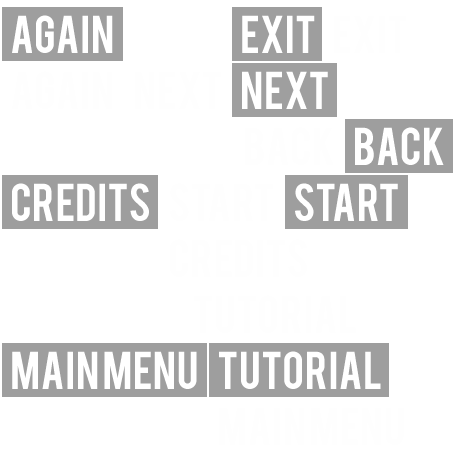
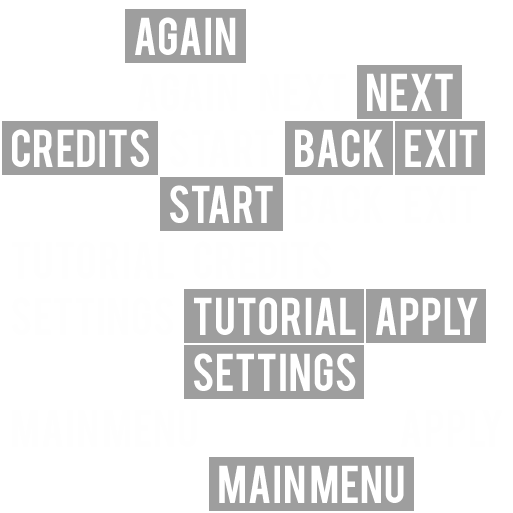
Added settings screen

diff --git a/core/src/com/fedorzaplatin/lunolet/screens/SettingsScreen.java b/core/src/com/fedorzaplatin/lunolet/screens/SettingsScreen.java
@@ -1,0 +1,113 @@
+package com.fedorzaplatin.lunolet.screens;
+
+
+import com.badlogic.gdx.Gdx;
+import com.badlogic.gdx.graphics.GL20;
+import com.badlogic.gdx.graphics.Texture;
+import com.badlogic.gdx.graphics.g2d.TextureAtlas;
+import com.badlogic.gdx.scenes.scene2d.Stage;
+import com.badlogic.gdx.scenes.scene2d.ui.Image;
+import com.badlogic.gdx.scenes.scene2d.ui.ImageButton;
+import com.badlogic.gdx.scenes.scene2d.ui.Slider;
+import com.badlogic.gdx.scenes.scene2d.ui.Table;
+import com.fedorzaplatin.lunolet.MainClass;
+import com.fedorzaplatin.lunolet.ui.LunoletButtonsStyle;
+import com.fedorzaplatin.lunolet.ui.LunoletSliderStyle;
+import org.ini4j.Ini;
+
+public class SettingsScreen extends BaseScreen {
+
+    private Stage stage;
+    private ImageButton applyBtn, backBtn;
+    private Slider musicVolumeSlider, effectsVolumeSlider;
+    private float currentMusicVolume, currentEffectsVolume;
+    private boolean changed;
+
+    /**
+     * Constructor
+     * @param game main class that extends class Game
+     */
+    public SettingsScreen(MainClass game, Ini config) {
+        super(game);
+        this.stage = new Stage();
+        this.changed = false;
+
+        Ini.Section section = config.get("SETTINGS");
+        this.currentMusicVolume = Float.parseFloat(section.get("musicVolume"));
+        this.currentEffectsVolume = Float.parseFloat(section.get("effectsVolume"));
+
+        Image background = new Image((Texture) game.am.get("settings-screen/background.png"));
+
+        Slider.SliderStyle sliderStyle;
+        sliderStyle = new LunoletSliderStyle((TextureAtlas) game.am.get("settings-screen/slider.atlas"));
+        musicVolumeSlider = new Slider(0, 1, 0.01f, false, sliderStyle);
+        musicVolumeSlider.setValue(currentMusicVolume);
+
+        sliderStyle = new LunoletSliderStyle((TextureAtlas) game.am.get("settings-screen/slider.atlas"));
+        effectsVolumeSlider = new Slider(0, 1, 0.01f, false, sliderStyle);
+        effectsVolumeSlider.setValue(currentEffectsVolume);
+
+        ImageButton.ImageButtonStyle buttonStyle;
+        buttonStyle = new LunoletButtonsStyle((TextureAtlas) game.am.get("buttons.atlas"), "apply");
+        applyBtn = new ImageButton(buttonStyle);
+
+        buttonStyle = new LunoletButtonsStyle((TextureAtlas) game.am.get("buttons.atlas"), "back");
+        backBtn = new ImageButton(buttonStyle);
+
+        Table table = new Table();
+        table.setPosition(0, -120);
+        table.setFillParent(true);
+        table.add(musicVolumeSlider).right().padBottom(54).padRight(34).expandX();
+        table.row();
+        table.add(effectsVolumeSlider).right().padTop(54).padBottom(67).padRight(34).expandX();
+        table.row();
+        table.add(backBtn).bottom().center().padTop(67).padBottom(43).expandX();
+
+        stage.addActor(background);
+        stage.addActor(table);
+    }
+
+    @Override
+    public void show() {
+        Gdx.input.setInputProcessor(stage);
+    }
+
+    @Override
+    public void render(float delta) {
+        Gdx.gl.glClearColor(0, 0,0, 0);
+        Gdx.gl.glClear(GL20.GL_COLOR_BUFFER_BIT);
+
+        if ((currentMusicVolume != musicVolumeSlider.getValue() | currentEffectsVolume != effectsVolumeSlider.getValue()) & !changed) {
+            changed = !changed;
+        } else if ((currentMusicVolume == musicVolumeSlider.getValue() | currentEffectsVolume == effectsVolumeSlider.getValue()) & changed) {
+            changed = !changed;
+        }
+        stage.act();
+        stage.draw();
+    }
+
+    @Override
+    public void resize(int width, int height) {
+        super.resize(width, height);
+    }
+
+    @Override
+    public void pause() {
+        super.pause();
+    }
+
+    @Override
+    public void resume() {
+        super.resume();
+    }
+
+    @Override
+    public void hide() {
+        Gdx.input.setInputProcessor(null);
+    }
+
+    @Override
+    public void dispose() {
+        super.dispose();
+    }
+}

diff --git a/core/src/com/fedorzaplatin/lunolet/MainClass.java b/core/src/com/fedorzaplatin/lunolet/MainClass.java
@@ -9,17 +9,29 @@ import com.badlogic.gdx.graphics.Texture;
 import com.badlogic.gdx.graphics.g2d.BitmapFont;
 import com.badlogic.gdx.graphics.g2d.TextureAtlas;
 import com.fedorzaplatin.lunolet.screens.SplashScreen;
+import org.ini4j.Ini;
+
+import java.io.File;
+import java.io.IOException;
 
 public class MainClass extends Game {
 
 	public ScreensManager sm;
 	public AssetManager am;
+	private Ini config;
 
 	private Music mainMenuMusic, gameScreenMusic;
 	
 	@Override
 	public void create () {
 		Gdx.graphics.setResizable(false);
+
+		try {
+			config = new Ini(new File("config.ini"));
+		} catch (IOException e) {
+			e.printStackTrace();
+		}
+
 		sm = new ScreensManager(this);
 		am = new AssetManager();
 
@@ -39,6 +51,10 @@ public class MainClass extends Game {
 
 		// Assets of credits screen
 		am.load("credits-screen/background.png", Texture.class);
+
+		// Assets of settings screen
+		am.load("settings-screen/background.png", Texture.class);
+		am.load("settings-screen/slider.atlas", TextureAtlas.class);
 
 		// Assets of game screen
 		am.load("game-screen/background.png", Texture.class);
@@ -70,7 +86,7 @@ public class MainClass extends Game {
 	}
 
 	public void finishLoad() {
-		sm.load();
+		sm.load(config);
 		gameScreenMusic = am.get("game-screen/gameScreenMusic.mp3");
 		gameScreenMusic.setLooping(true);
 		mainMenuMusic = am.get("main-menu/mainMenuMusic.mp3");
@@ -93,5 +109,13 @@ public class MainClass extends Game {
 
 	public void stopGameScreenMusic () {
 		gameScreenMusic.stop();
+	}
+
+	public void setMusicVolume(float value) {
+		mainMenuMusic.setVolume(value);
+		gameScreenMusic.setVolume(value);
+	}
+
+	public void setEffectsVolume(float value) {
 	}
 }

diff --git a/core/src/com/fedorzaplatin/lunolet/screens/MainMenu.java b/core/src/com/fedorzaplatin/lunolet/screens/MainMenu.java
@@ -66,6 +66,15 @@ public class MainMenu extends BaseScreen{
             }
         });
 
+        style = new LunoletButtonsStyle((TextureAtlas) game.am.get("buttons.atlas"), "settings");
+        ImageButton settingsBtn = new ImageButton(style);
+        settingsBtn.addCaptureListener(new ChangeListener() {
+            @Override
+            public void changed(ChangeEvent event, Actor actor) {
+                game.setScreen(game.sm.settingsScreen);
+            }
+        });
+
         style = new LunoletButtonsStyle((TextureAtlas) game.am.get("buttons.atlas"), "credits");
         ImageButton creditsBtn = new ImageButton(style);
         creditsBtn.addCaptureListener(new ClickListener() {
@@ -85,13 +94,15 @@ public class MainMenu extends BaseScreen{
         });
 
         Table table = new Table();
-        table.setPosition(0, -5);
+        table.setPosition(0, -30);
         table.setFillParent(true);
         table.left();
         table.pad(38);
         table.add(startBtn).pad(8).left();
         table.row();
         table.add(tutorialBtn).pad(8).left();
+        table.row();
+        table.add(settingsBtn).pad(8).left();
         table.row();
         table.add(creditsBtn).pad(8).left();
         table.row();

diff --git a/core/src/com/fedorzaplatin/lunolet/ScreensManager.java b/core/src/com/fedorzaplatin/lunolet/ScreensManager.java
@@ -1,21 +1,23 @@
 package com.fedorzaplatin.lunolet;
 
 import com.fedorzaplatin.lunolet.screens.*;
+import org.ini4j.Ini;
 
 public class ScreensManager {
     final private MainClass game;
 
-    public BaseScreen splashScreen, mainMenu, creditsScreen, tutorialScreen, gameScreen, gameOverScreen, gameCompletedScreen;
+    public BaseScreen splashScreen, mainMenu, creditsScreen, tutorialScreen, gameScreen, gameOverScreen, gameCompletedScreen, settingsScreen;
 
     public ScreensManager(final MainClass game){
         this.game = game;
     }
 
-    public void load(){
+    public void load(Ini config){
         splashScreen = new SplashScreen(game);
         mainMenu = new MainMenu(game);
         creditsScreen = new CreditsScreen(game);
         tutorialScreen = new TutorialScreen(game);
+        settingsScreen = new SettingsScreen(game, config);
         gameScreen = new GameScreen(game);
         gameOverScreen = new GameOverScreen(game);
         gameCompletedScreen = new GameCompletedScreen(game);

diff --git a/core/src/com/fedorzaplatin/lunolet/ui/LunoletSliderStyle.java b/core/src/com/fedorzaplatin/lunolet/ui/LunoletSliderStyle.java
@@ -1,0 +1,21 @@
+package com.fedorzaplatin.lunolet.ui;
+
+import com.badlogic.gdx.graphics.g2d.TextureAtlas;
+import com.badlogic.gdx.maps.ImageResolver;
+import com.badlogic.gdx.scenes.scene2d.ui.Slider;
+import com.badlogic.gdx.scenes.scene2d.utils.TextureRegionDrawable;
+
+public class LunoletSliderStyle extends Slider.SliderStyle{
+
+    /**
+     * Buttons style constructor
+     * @param atlas Texture atlas which contains a slider textures (background, knob, knobOver, knobDown)
+     */
+    public LunoletSliderStyle(TextureAtlas atlas) {
+        ImageResolver.TextureAtlasImageResolver tair = new ImageResolver.TextureAtlasImageResolver(atlas);
+        this.background = new TextureRegionDrawable(tair.getImage("background"));
+        this.knob = new TextureRegionDrawable(tair.getImage("knob"));
+        this.knobOver = new TextureRegionDrawable(tair.getImage("knobOver"));
+        this.knobDown = new TextureRegionDrawable(tair.getImage("knobDown"));
+    }
+}

diff --git a/core/src/com/fedorzaplatin/lunolet/LunarModule.java b/core/src/com/fedorzaplatin/lunolet/LunarModule.java
@@ -27,6 +27,7 @@ public class LunarModule extends Actor {
     private Body body;
     private Fixture fixture;
     private Sound engineSound;
+    private long soundId;
     private float angle;
 
     //variables related to the main engine's fire sprite
@@ -80,7 +81,7 @@ public class LunarModule extends Actor {
         time = 0;
 
         //Star and pause the engine's sound to resume it when space key is pressed
-        engineSound.loop();
+        soundId = engineSound.loop();
         engineSound.pause();
     }
 
@@ -243,5 +244,9 @@ public class LunarModule extends Actor {
 
     public void setActivateAuxiliaryEnginesRight(boolean activateAuxiliaryEnginesRight) {
         this.activateAuxiliaryEnginesRight = activateAuxiliaryEnginesRight;
+    }
+
+    public void setEffectsVolume(float value){
+        engineSound.setVolume(soundId, value);
     }
 }

diff --git a/core/src/com/fedorzaplatin/lunolet/screens/GameScreen.java b/core/src/com/fedorzaplatin/lunolet/screens/GameScreen.java
@@ -176,6 +176,10 @@ public class GameScreen extends BaseScreen{
         super.dispose();
     }
 
+    public void setEffectsVolume(float value) {
+        lunarModule.setEffectsVolume(value);
+    }
+
     private class GameContactListener implements ContactListener {
 
         @Override
